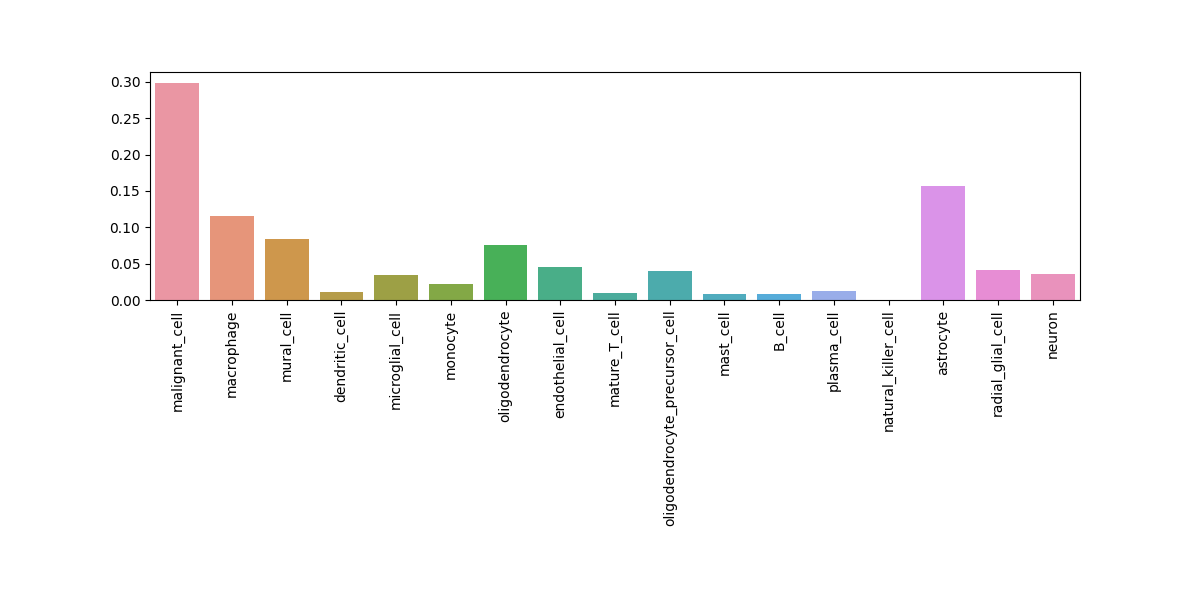
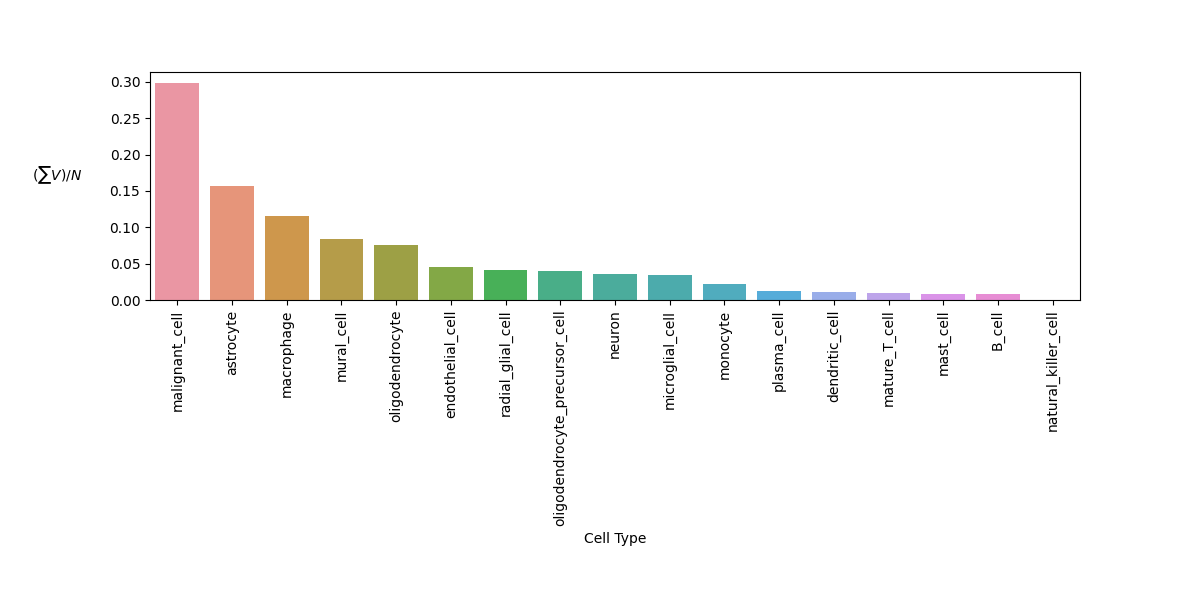
feat: add ylabel formula with improved position and horizontal rotation. sort bars by values in descending order

diff --git a/cibersortx-plots/plot.py b/cibersortx-plots/plot.py
@@ -22,15 +22,22 @@ numbeer_of_patients = len(df)
 # EXAMPLE
 # print(df['malignant_cell'].sum() / numbeer_of_patients)
 
-df = df.apply(lambda x: x.sum() / numbeer_of_patients)
-print(df)
+ser = df.apply(lambda x: x.sum() / numbeer_of_patients)
+
+ser = ser.sort_values(ascending=False)
+
+print(ser)
+# print(type(ser))  # <class 'pandas.core.series.Series'>
+# print(ser.index)
 
 plt.figure(figsize=(12, 6))
-# ax = df.plot.bar(
-#     rot=90
-#     )
+# sum of values (V) for given cell type divided by the number of patients (N)
+y_label = r"$(\sum V) / N $"
 plt.subplots_adjust(bottom=0.5)
-sns.barplot(x=df.index, y=df.values)
+ax = sns.barplot(x=ser.index, y=ser.values)
+ax.set(xlabel="Cell Type", ylabel=y_label)
 plt.xticks(rotation=90)
+plt.ylabel(y_label, rotation=0)
+ax.yaxis.set_label_coords(-0.1, 0.5)  # 1.02
 # plt.show()
 plt.savefig("barplot.png")
